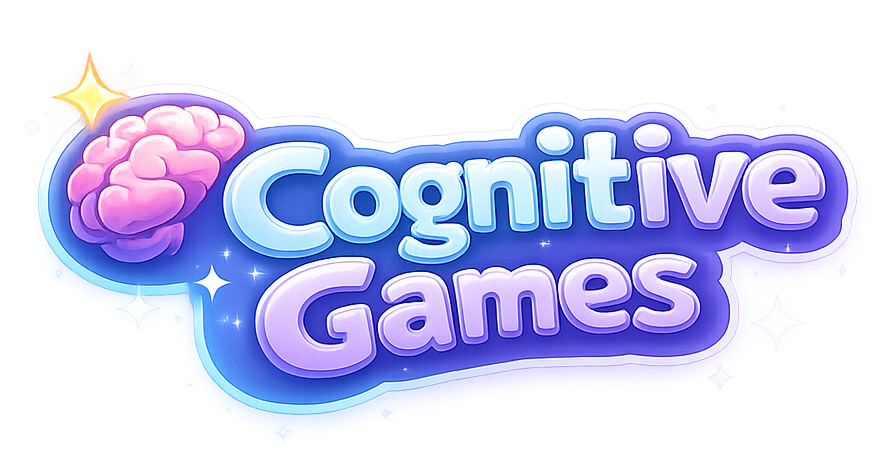
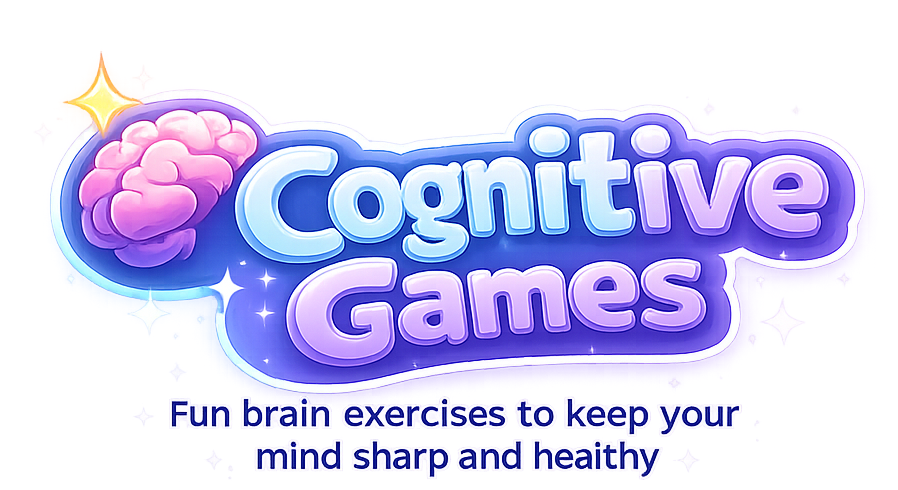
change title

diff --git a/src/App.jsx b/src/App.jsx
@@ -29,7 +29,6 @@ import { useMusic }         from './hooks/useMusic';
 import { saveScore, getAllScores } from './utils/scoreStore';
 import './design/globals.css';
 import styles from './App.module.css';
-import cognitiveGameTitle from './assets/cognitive-game-title.png';
 
 const MUSIC_SRC = import.meta.env.BASE_URL + 'music.mp3';
 
@@ -564,9 +563,8 @@ export function App() {
   return (
     <div className={styles.homeScreen}>
       <div className={styles.homeHeader}>
-        <img src={cognitiveGameTitle} alt="CaritaHub Cognitive Games" className={styles.homeTitle} />
-        <p className={styles.homeSubtitle}>Fun brain exercises to keep your mind sharp and healthy.</p>
-        <div className={styles.homeAvatar} aria-hidden="true" />
+        <div className={styles.homeIcon} aria-hidden="true">🧠</div>
+        <h1 className={styles.homeTitle}>CaritaHub Cognitive Games</h1>
         <p className={styles.homeGreeting}>Hello, {urlMemberId}! 👋</p>
         <p className={styles.homeProgressHint}>{getProgressHint(getAllScores(), ALL_GAMES.length)}</p>
         
